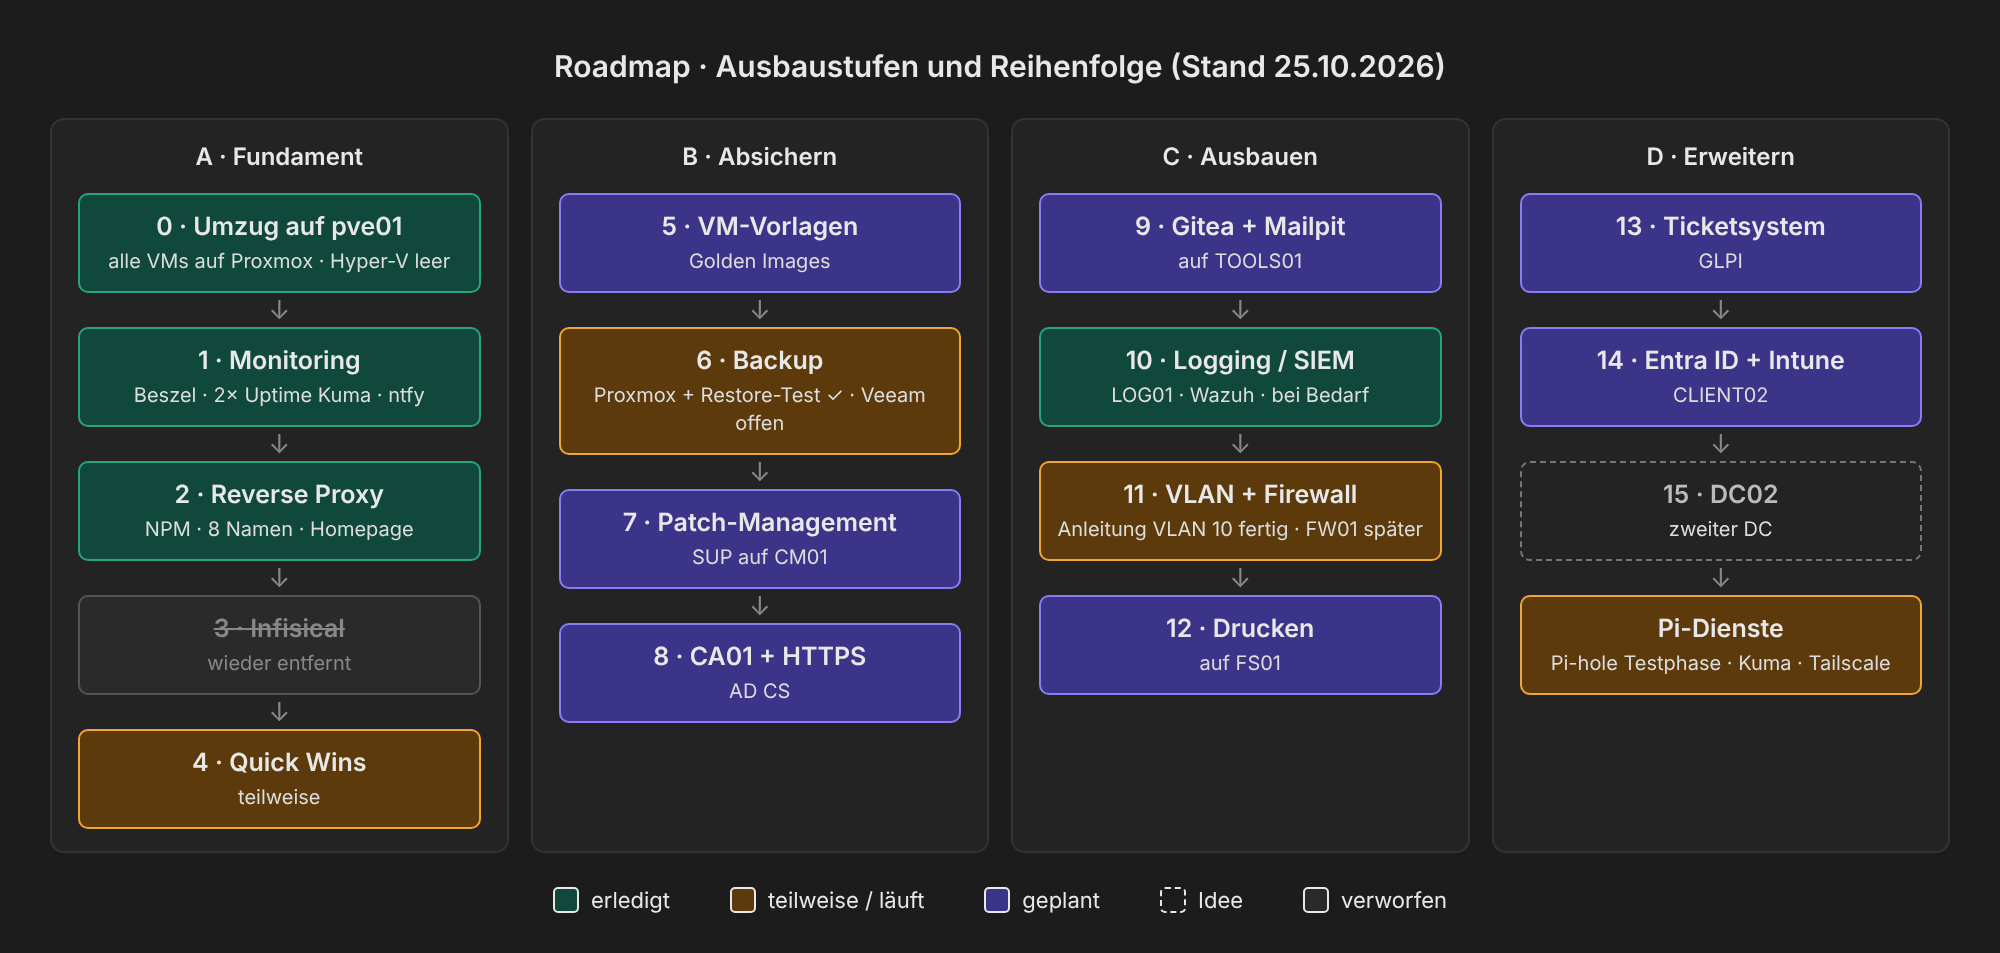
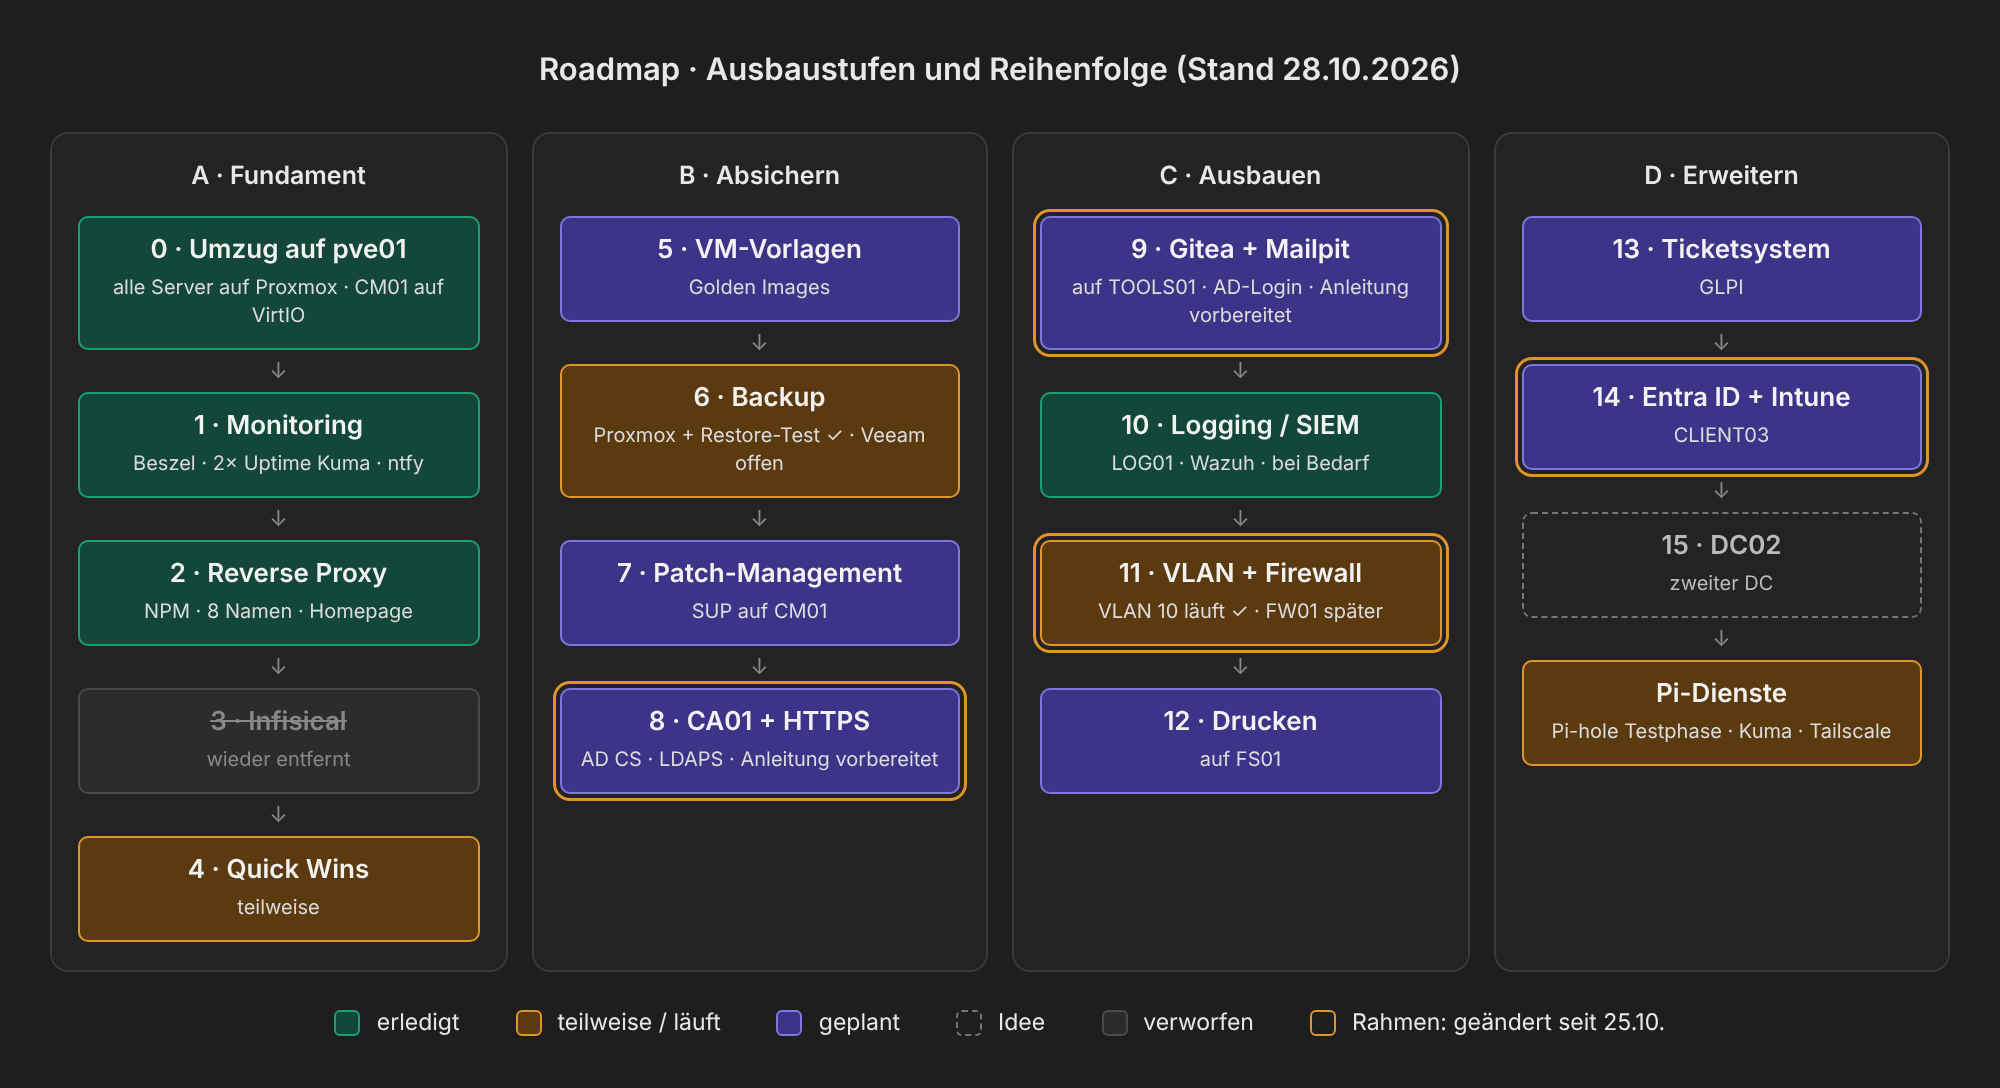
Roadmap-Grafik auf Stand 28.10.
Claude-Session: https://claude.ai/code/session_013Cos1Z1yjkYrhvKzSPzSoo

diff --git a/docs/roadmap.md b/docs/roadmap.md
@@ -14,7 +14,7 @@ Jede Stufe baut auf der vorherigen auf: Vorlagen vor neuen Servern, Backup vor r
 | 5 | VM-Vorlagen | – | geplant |
 | 6 | Backup und Restore | BKP01 | Proxmox-Backups jede Nacht aufs Pi-NAS ✅ ([Kapitel 16](anleitung/16-pi-nas.md)), Veeam für Windows-Restores geplant |
 | 7 | Patch-Management über MECM | – | geplant |
-| 8 | Eigene CA und HTTPS (auch für MECM) | CA01 | geplant |
+| 8 | Eigene CA und HTTPS (auch für MECM) | CA01 | geplant, Anleitung vorbereitet |
 | 9 | Gitea und Mailpit | – | geplant, Anleitung vorbereitet |
 | 10 | Logging / SIEM (Wazuh) | LOG01 | ✅ |
 | 11 | Firewall (OPNsense) und getrenntes Clientnetz | FW01 | Grundlage ✅: Lab-Netz als VLAN 10 über den Switch ([Kapitel 19](anleitung/19-vlan-testclient.md)), Firewall geplant |

diff --git a/docs/changelog.md b/docs/changelog.md
@@ -1,6 +1,7 @@
 # Changelog
 
 ## 2026-10-28
+- [Roadmap-Grafik](diagramme/roadmap.png) auf Stand 28.10. (VLAN 10 läuft, Gitea/Mailpit und CA01 vorbereitet, CLIENT03)
 - [Roadmap](roadmap.md): Entra-/Intune-Client heißt jetzt CLIENT03, weil CLIENT02 der VLAN-Testclient ist
 - Neue Grafik [Netzwerk Stand 27.10.](diagramme/netzwerk-2026-10-27.png) mit VLAN 10, Switch-Ports und CLIENT02, jetzt oben im README und im [Aufbau](aufbau.md)
 - README: Bereich Netzwerk in „Was am Ende läuft“, Switch in „Getestet mit“, Arbeits-PC im Diagramm von Teil 6
